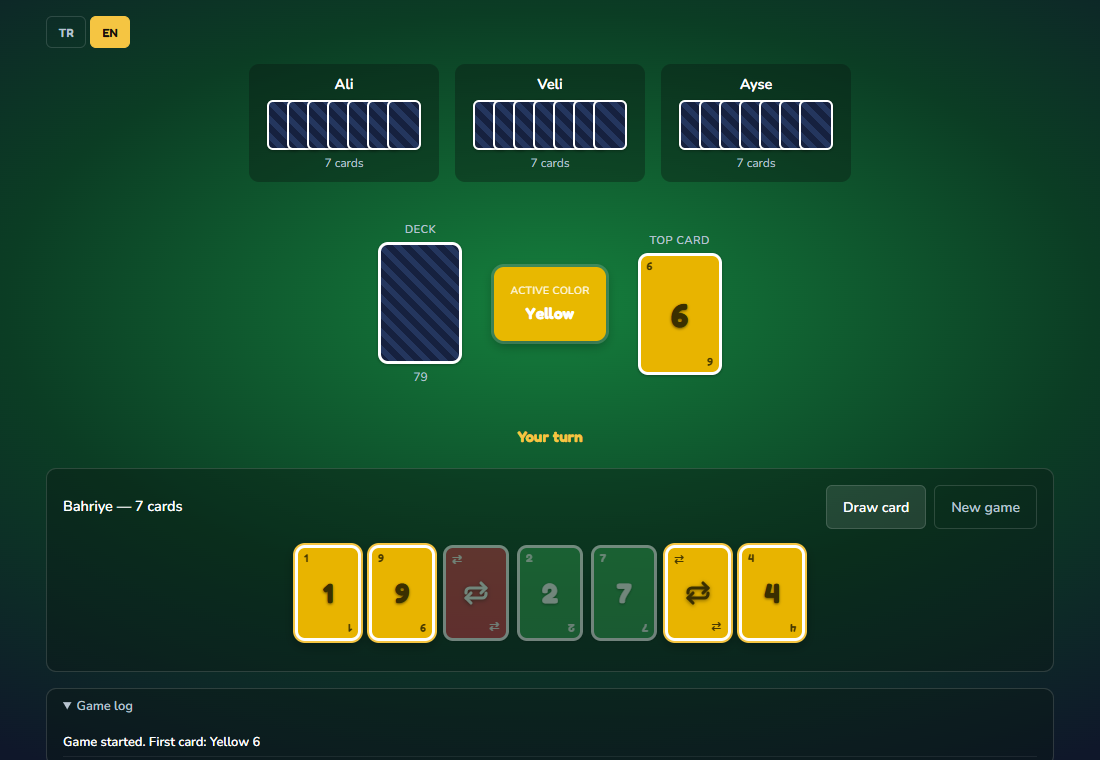
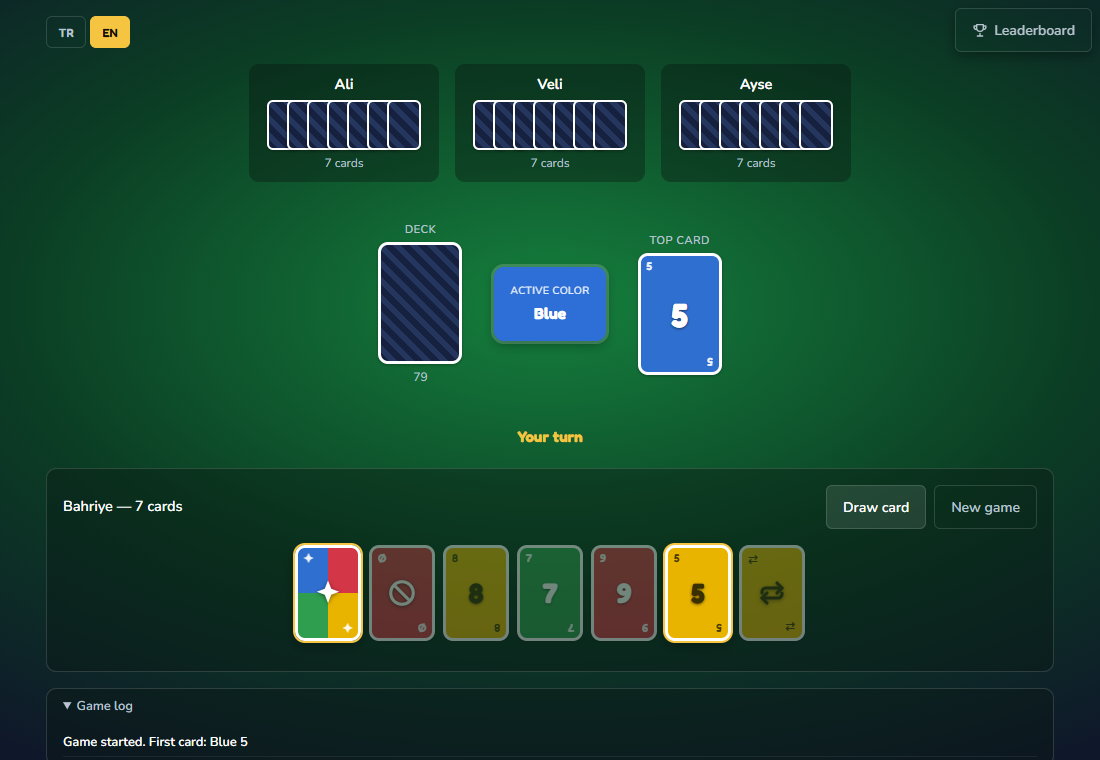
ekran goruntulerini guncelledim (leaderboard butonu, giris/kayit yok), lider tablosu gorseli ekledim

diff --git a/README.md b/README.md
@@ -10,9 +10,9 @@ and real-time multiplayer, with a bilingual (Turkish / English) interface.
 
 ## Screenshots
 
-| Home screen | In-game (single-player) | Multiplayer lobby |
-|---|---|---|
-| ![Home screen](docs/screenshots/01-setup.png) | ![In-game view](docs/screenshots/02-single-player-game.png) | ![Multiplayer lobby](docs/screenshots/03-multiplayer-lobby.png) |
+| Home screen | In-game (single-player) | Multiplayer lobby | Leaderboard |
+|---|---|---|---|
+| ![Home screen](docs/screenshots/01-setup.png) | ![In-game view](docs/screenshots/02-single-player-game.png) | ![Multiplayer lobby](docs/screenshots/03-multiplayer-lobby.png) | ![Leaderboard](docs/screenshots/04-leaderboard.png) |
 
 ## Table of contents
 
